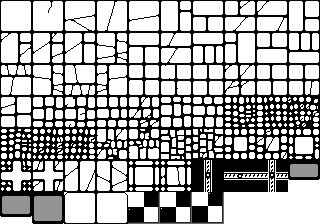
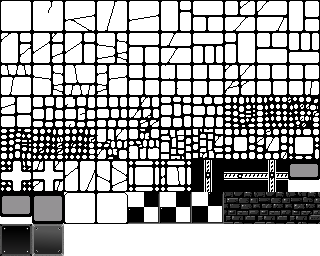
lots of editor work

diff --git a/src/EditorElements/LevelPreview.py b/src/EditorElements/LevelPreview.py
@@ -16,6 +16,8 @@ class PreviewCamera(Camera):
 
 class LevelPreview:
 
+    tpx = None
+    playercam = False
     camera = PreviewCamera()
     controllers = Controllers()
     player = None
@@ -30,6 +32,7 @@ class LevelPreview:
         LevelPreview.floor = DungeonFloor( game = LevelPreview, tilescale =2, width = area_def["width"]*2, height = area_def["height"]*2, camera = LevelPreview.camera, player = LevelPreview.player, objects = [], area_def = area_def )
 
 
+
     def tick(app):
         if LevelPreview.floor:
             LevelPreview.player.tick()
@@ -42,11 +45,45 @@ class LevelPreview:
 
             LevelPreview.floor.tick()
 
+            if LevelPreview.tpx is not None:
+                LevelPreview.player.p[0] = LevelPreview.tpx
+                LevelPreview.player.p[1] = LevelPreview.tpy
+                LevelPreview.tpx = None
+
+
+    def toggle_camlock():
+        LevelPreview.playercam = not LevelPreview.playercam
+
+
+    def orient_player():
+        if LevelPreview.floor is not None:
+            LevelPreview.player.p[0] = Grid.cx*2
+            LevelPreview.player.p[1] = Grid.cx*2
+
+    def synch_cams(app):
+        if LevelPreview.floor is not None:
+            if(LevelPreview.playercam):
+                LevelPreview.camera.p[0] = LevelPreview.player.p[0]
+                LevelPreview.camera.p[1] = LevelPreview.player.p[1]
+                Grid.cx = LevelPreview.player.p[0]*0.5
+                Grid.cy = LevelPreview.player.p[1]*0.5
+
+    def stash_player():
+        if(LevelPreview.floor is not None):
+            LevelPreview.tpx = LevelPreview.player.p[0]
+            LevelPreview.tpy = LevelPreview.player.p[1]
+
     def render(app):
         LevelPreview.camera.p[0] = Grid.cx*2
         LevelPreview.camera.p[1] = Grid.cy*2
         LevelPreview.camera.zoom = Grid.zoom*0.5
         if LevelPreview.floor is not None:
+            if(LevelPreview.playercam):
+                LevelPreview.camera.p[0] = LevelPreview.player.p[0]
+                LevelPreview.camera.p[1] = LevelPreview.player.p[1]
+                Grid.cx = LevelPreview.player.p[0]*0.5
+                Grid.cy = LevelPreview.player.p[1]*0.5
+
             LevelPreview.floor.precompute_frame()
             LevelPreview.floor.render_preview()
 

diff --git a/src/Editor.py b/src/Editor.py
@@ -9,6 +9,7 @@ from .EditorElements.BrushSelectTool import BrushSelectTool
 from .EditorElements.World import World
 from .EditorElements.LevelPreview import LevelPreview
 from .EditorElements.WorldCursor import WorldCursor
+from .EditorElements.PolyFills.layer_map import layer_map
 
 class Editor:
     instance = None
@@ -128,9 +129,16 @@ class Editor:
     def get_title_str(self):
         return "EDITOR. screen({0:0.2f},{1:0.2f}, world({2:0.2f},{3:0.2f})".format( self.nmx, self.nmy, self.wmx, self.wmy)
     def get_status_str(self):
-        return "LAYER:{0}".format( self.layer)
+        if(self.layer > 0 and self.layer<len(layer_map.key_order)):
+            layername = layer_map.key_order[self.layer]
+        else:
+            layername = self.layer
+        return "LAYER:{0}".format( layername)
 
     def render(self):
+
+        LevelPreview.synch_cams(self)
+
         with BGL.context.render_target(Editor.ui_fb):
             BGL.context.clear(0.0,0.0,0.0,0.0)
             with BGL.blendmode.alpha_over:
@@ -144,6 +152,7 @@ class Editor:
 
 
         BGL.context.clear(0.0,0.0,0.0,0.0)
+
         Grid.render(self)
         if(self.show_preview):
             LevelPreview.render(self)
@@ -165,7 +174,9 @@ class Editor:
 
 
 BGL.keyboard.register_keydown_handler('p', World.reduce)
+BGL.keyboard.register_keydown_handler('c', LevelPreview.toggle_camlock)
 BGL.keyboard.register_keydown_handler('b', Editor.toggle_brushes)
 BGL.keyboard.register_keydown_handler('v', Editor.toggle_preview)
 BGL.keyboard.register_keydown_handler('leftbracket', Editor.layer_down)
 BGL.keyboard.register_keydown_handler('rightbracket', Editor.layer_up)
+

diff --git a/src/Game.py b/src/Game.py
@@ -408,15 +408,15 @@ tilescale =2, width = area_def["width"]*2, height = area_def["height"]*2, camera
 
                 BGL.context.clear( 1.0,1.0,1.0,1.0);
 
-                if(self.floor.custom_background):
-                    self.floor.custom_background.camera = self.camera
-                    self.floor.custom_background.render(self.floor)
-                else:
-                    self.background.camera = self.camera
-                    self.background.render( self.floor.vision_lightmap.get_lightmap_texture()) 
+                #if(self.floor.custom_background):
+                #    self.floor.custom_background.camera = self.camera
+                #    self.floor.custom_background.render(self.floor)
+                #else:
+                #    self.background.camera = self.camera
+                #    self.background.render( self.floor.vision_lightmap.get_lightmap_texture()) 
                 self.floor.render()
-                self.fog.camera = self.camera
-                self.fog.render(self.floor, self.floor.vision_lightmap.get_lightmap_texture(),self.floor.fog_level_real+self.floor.fog_level_base) 
+                #self.fog.camera = self.camera
+                #self.fog.render(self.floor, self.floor.vision_lightmap.get_lightmap_texture(),self.floor.fog_level_real+self.floor.fog_level_base) 
 
             Game.god_buffer.render_processed( Game.god_shader )
             self.player.render_hud()

diff --git a/src/EditorElements/PolyFillList.py b/src/EditorElements/PolyFillList.py
@@ -1,6 +1,8 @@
 import importlib
-from .PolyFills.room_test import room_test
+from .PolyFills.platform_floor import platform_floor
 from .PolyFills.hard_wall import hard_wall
+from .PolyFills.soft_wall import soft_wall
+from .PolyFills.church_wall import church_wall
 from .PolyFills.totem import totem
 from .PolyFills.door import door
 
@@ -17,8 +19,10 @@ class PolyFillList:
                     pass
             polyfill_map = {
                 "None" : no_polyfill,
-                "room_test" : room_test,
+                "platform_floor" : platform_floor,
                 "hard_wall" : hard_wall,
+                "soft_wall" : soft_wall,
+                "church_wall" : church_wall,
                 "totem" : totem,
                 "door" : door,
             }

diff --git a/src/EditorElements/GeneratedArea.py b/src/EditorElements/GeneratedArea.py
@@ -44,8 +44,10 @@ class GeneratedArea:
             for y in range( -1 * limit, limit):
                 if (x,y) in GeneratedArea.tiles:
                     tile = GeneratedArea.tiles[(x,y)]
-                    if(x,y) in GeneratedArea.conditional_tiles:
-                        tile = GeneratedArea.conditional_tiles[(x,y)]
+
+                    if(tile<60):
+                        if(x,y) in GeneratedArea.conditional_tiles:
+                            tile = GeneratedArea.conditional_tiles[(x,y)]
 
                     GeneratedArea.add_line("TILE")
                     GeneratedArea.add_line("{0}".format(x))

diff --git a/src/EditorElements/PolyFills/hard_wall.py b/src/EditorElements/PolyFills/hard_wall.py
@@ -1,8 +1,9 @@
 from .Factory import Factory
 from random import choice
+from .layer_map import layer_map
 
 class hard_wall:
-    layer = 3
+    layer = layer_map.get_layer_id("wall")
     dims = None
     mesh_key = None
 
@@ -17,7 +18,7 @@ class hard_wall:
             True, True, False)
         for x in range(brush.x1, brush.x2):
             for y in range(brush.y1, brush.y2):
-                area.set_tile(x,y, choice(range(10,15)), brush, True)
+                area.set_tile(x,y, 70, brush, True)
 
 
 

diff --git a/src/EditorElements/PolyFills/church_wall.py b/src/EditorElements/PolyFills/church_wall.py
@@ -1,0 +1,18 @@
+from .Factory import Factory
+from random import choice
+from .layer_map import layer_map
+
+class church_wall:
+    layer = layer_map.get_layer_id("wall")
+    dims = None
+    mesh_key = None
+
+    def reduce(area, brush):
+        for x in range(brush.x1, brush.x2):
+            for y in range(brush.y1, brush.y2):
+                area.set_tile(x,y, choice(range(67,69)), brush, False)
+
+
+
+
+        

diff --git a/src/EditorElements/PolyFills/totem.py b/src/EditorElements/PolyFills/totem.py
@@ -1,11 +1,13 @@
 from .Factory import Factory
 from random import choice
 from .WorldSpaceBrush import WorldSpaceBrush
+from .layer_map import layer_map
 
 class totem:
     dims = (3,3)
     mesh_key = "platform"
-    layer = 2
+    layer = layer_map.get_layer_id("totem")
+
     def reduce(area, brush):
         wsb = WorldSpaceBrush.from_brush(brush) 
         Factory.make_totem( area, wsb.cx, wsb.cy)

diff --git a/src/EditorElements/PolyFills/soft_wall.py b/src/EditorElements/PolyFills/soft_wall.py
@@ -1,0 +1,18 @@
+from .Factory import Factory
+from random import choice
+from .layer_map import layer_map
+
+class soft_wall:
+    layer = layer_map.get_layer_id("wall")
+    dims = None
+    mesh_key = None
+
+    def reduce(area, brush):
+        for x in range(brush.x1, brush.x2):
+            for y in range(brush.y1, brush.y2):
+                area.set_tile(x,y, 71, brush, True)
+
+
+
+
+        

diff --git a/src/EditorElements/PolyFills/platform_floor.py b/src/EditorElements/PolyFills/platform_floor.py
@@ -2,9 +2,10 @@ from ..Brushes import Brushes
 from .WorldSpaceBrush import WorldSpaceBrush
 from .Factory import Factory
 from .Edges import Edges
+from .layer_map import layer_map
 
-class room_test:
-    layer = 1
+class platform_floor:
+    layer = layer_map.get_layer_id("floor")
     dims = None
     mesh_key = "platform"
     def reduce( area, brush ):

diff --git a/src/EditorElements/PolyFills/door.py b/src/EditorElements/PolyFills/door.py
@@ -3,10 +3,11 @@ from .WorldSpaceBrush import WorldSpaceBrush
 from .Factory import Factory
 from .Edges import Edges
 from random import choice
+from .layer_map import layer_map
 import uuid
 
 class door:
-    layer = 3
+    layer = layer_map.get_layer_id("wall")
     dims = None
     mesh_key = "platform"
     def reduce( area, brush ):

diff --git a/src/EditorElements/PolyFills/layer_map.py b/src/EditorElements/PolyFills/layer_map.py
@@ -1,0 +1,11 @@
+class layer_map:
+    key_order = [
+                "all",
+                "floor",
+                "totem",
+                "wall",
+                "npc"
+            ]
+
+    def get_layer_id(key):
+        return layer_map.key_order.index(key)
